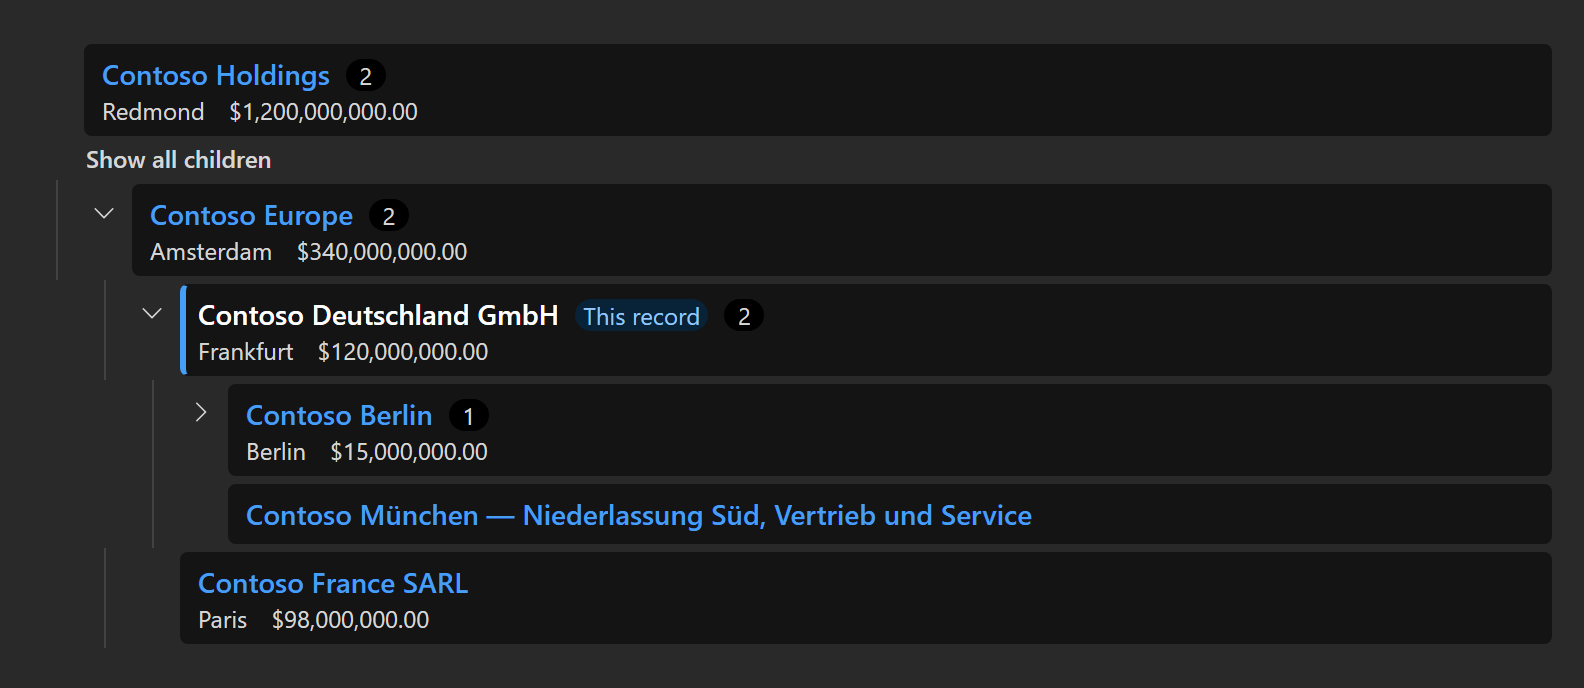
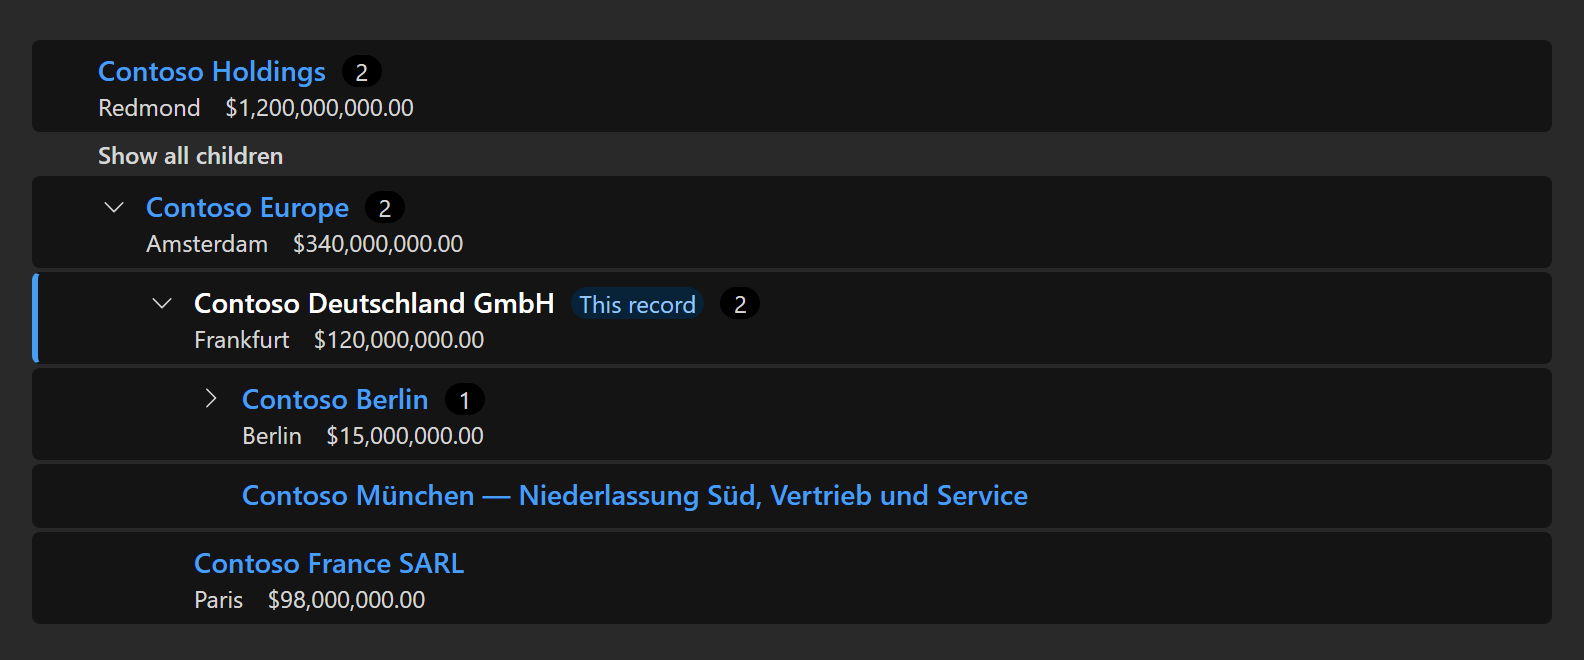
0.1.1: the row is the surface, and the details stay at every width
The Accounts form found two things the rig and the screenshots had missed,
both about the control's width on a form (SPEC.md, Walkthrough W5 and W6).
Detail columns never appeared: the control's column was about 280px and 0.1.0
hid the detail lines below 480px — a phone rule that fired on every two-column
section. Narrow now only tightens the indent. And the top row sat 26px right
of the form's other fields, because every row reserved a chevron column to the
left of its card; the row is the full-width surface now with the chevron
inside it, as Fluent's Tree draws it, so the leftmost row lines up with the
label whatever its depth. W1–W4 and W6's tree all behaved; W7 is left open
with its reasons. Screenshots retaken; docs no longer promise hidden details.

diff --git a/HierarchyView/css/HierarchyView.css b/HierarchyView/css/HierarchyView.css
@@ -99,15 +99,34 @@
  * the component sets per row, so the DOM stays one level deep and a screen
  * reader still hears the depth.
  *
+ * **The row is the surface, and the chevron sits inside it.** The first build
+ * reserved a chevron column to the left of every card, and the top row's card
+ * therefore sat 26px right of where the form's other fields start — the first
+ * thing the Accounts form showed (0.1.0 walkthrough, W6). Fluent's own Tree
+ * draws it this way: one full-width row per node, the indent and the chevron
+ * inside it, so the leftmost row lines up with the label whatever its depth.
+ *
  * Nothing here uses `container-type`: the root of a code component sits in a
  * shrink-to-fit parent on a form, and size containment zeroes its intrinsic
  * width — every form collapsed to a sliver when Calendar View 0.1.3 tried it.
- * Narrow is a class the component sets from a ResizeObserver.
+ * Narrow is a class the component sets from a ResizeObserver, and it only
+ * tightens the indent: the detail lines stay, because a two-column form
+ * section is under 480px and hiding them there hid them everywhere (W5).
  */
+.HierarchyView {
+    --HierarchyView-indent: 24px;
+    --HierarchyView-toggle: 24px;
+    --HierarchyView-pad: var(--spacingHorizontalXS, 4px);
+}
+
+.HierarchyView--narrow {
+    --HierarchyView-indent: 16px;
+}
+
 .HierarchyView .HierarchyView-root {
     width: 100%;
     box-sizing: border-box;
-    padding: var(--spacingVerticalXS, 4px) 0;
+    padding: var(--spacingVerticalXXS, 2px) 0;
 }
 
 .HierarchyView .HierarchyView-tree {
@@ -117,50 +136,60 @@
 }
 
 .HierarchyView .HierarchyView-item {
-    position: relative;
     margin: 0;
-    padding: 0 0 0 calc(var(--HierarchyView-depth, 0) * 24px);
-}
-
-.HierarchyView[dir="rtl"] .HierarchyView-item {
-    padding: 0 calc(var(--HierarchyView-depth, 0) * 24px) 0 0;
+    padding: 0;
 }
 
 /*
- * The guide line joining a node to its children: drawn on the row's left
- * edge, offset into the indent, so a deep subtree reads as one column of
- * descent rather than as staggered text.
+ * The row: Fluent's `filled-darker` surface, the shape a model-driven form
+ * draws its fields in, spanning the control's whole width. The depth goes
+ * into its leading padding.
  */
-.HierarchyView .HierarchyView-item[aria-level]:not([aria-level="1"])::before {
-    content: "";
-    position: absolute;
-    top: 0;
-    bottom: 0;
-    left: calc(var(--HierarchyView-depth, 0) * 24px - 12px);
-    border-left: 1px solid var(--HierarchyView-stroke-disabled);
-}
-
-.HierarchyView[dir="rtl"] .HierarchyView-item[aria-level]:not([aria-level="1"])::before {
-    left: auto;
-    right: calc(var(--HierarchyView-depth, 0) * 24px - 12px);
-    border-left: 0;
-    border-right: 1px solid var(--HierarchyView-stroke-disabled);
-}
-
 .HierarchyView .HierarchyView-row {
     display: flex;
     align-items: flex-start;
     gap: var(--spacingHorizontalXXS, 2px);
+    box-sizing: border-box;
     min-height: 32px;
+    margin: 2px 0;
+    padding: var(--spacingVerticalXS, 4px) var(--spacingHorizontalS, 8px) var(--spacingVerticalXS, 4px)
+        calc(var(--HierarchyView-depth, 0) * var(--HierarchyView-indent) + var(--HierarchyView-pad));
+    border: 1px solid var(--HierarchyView-stroke);
+    border-radius: var(--HierarchyView-radius);
+    background-color: var(--HierarchyView-background);
+    transition: background-color var(--HierarchyView-duration-faster) var(--HierarchyView-curve-ease);
 }
 
-/* The chevron button: Fluent's small subtle Button, square, 24px. */
+.HierarchyView[dir="rtl"] .HierarchyView-row {
+    padding: var(--spacingVerticalXS, 4px)
+        calc(var(--HierarchyView-depth, 0) * var(--HierarchyView-indent) + var(--HierarchyView-pad))
+        var(--spacingVerticalXS, 4px) var(--spacingHorizontalS, 8px);
+}
+
+.HierarchyView .HierarchyView-row:hover {
+    background-color: var(--HierarchyView-background-hover);
+}
+
+/* The record the form is open on: the brand stroke on its leading edge. */
+.HierarchyView .HierarchyView-item--current > .HierarchyView-row {
+    border-left: 3px solid var(--HierarchyView-stroke-focus);
+    padding-left: calc(var(--HierarchyView-depth, 0) * var(--HierarchyView-indent) + var(--HierarchyView-pad) - 2px);
+}
+
+.HierarchyView[dir="rtl"] .HierarchyView-item--current > .HierarchyView-row {
+    border-left: 1px solid var(--HierarchyView-stroke);
+    border-right: 3px solid var(--HierarchyView-stroke-focus);
+    padding-left: var(--spacingHorizontalS, 8px);
+    padding-right: calc(var(--HierarchyView-depth, 0) * var(--HierarchyView-indent) + var(--HierarchyView-pad) - 2px);
+}
+
+/* The chevron button: Fluent's small subtle Button, square, 24px, inside the row. */
 .HierarchyView .HierarchyView-toggle {
     flex: 0 0 auto;
-    width: 24px;
-    min-width: 24px;
+    width: var(--HierarchyView-toggle);
+    min-width: var(--HierarchyView-toggle);
     height: 24px;
-    margin-top: 4px;
+    margin: -2px 0;
     padding: 0;
     color: var(--HierarchyView-foreground-secondary);
 }
@@ -182,38 +211,11 @@
     transform: rotate(90deg);
 }
 
-/*
- * The card: Fluent's `filled-darker` surface, the shape a model-driven form
- * draws its fields in, so a row reads as belonging to the form. The current
- * record gets the brand stroke on its leading edge — the one thing on the
- * page the user is looking for.
- */
+/* The card is the row's text; the surface is the row's. */
 .HierarchyView .HierarchyView-card {
     flex: 1 1 auto;
     min-width: 0;
-    box-sizing: border-box;
-    margin: 2px 0;
-    padding: var(--spacingVerticalXS, 4px) var(--spacingHorizontalS, 8px);
-    border: 1px solid var(--HierarchyView-stroke);
-    border-radius: var(--HierarchyView-radius);
-    background-color: var(--HierarchyView-background);
-    transition: background-color var(--HierarchyView-duration-faster) var(--HierarchyView-curve-ease);
-}
-
-.HierarchyView .HierarchyView-row:hover .HierarchyView-card {
-    background-color: var(--HierarchyView-background-hover);
-}
-
-.HierarchyView .HierarchyView-item--current > .HierarchyView-row .HierarchyView-card {
-    border-left: 3px solid var(--HierarchyView-stroke-focus);
-    padding-left: calc(var(--spacingHorizontalS, 8px) - 2px);
-}
-
-.HierarchyView[dir="rtl"] .HierarchyView-item--current > .HierarchyView-row .HierarchyView-card {
-    border-left: 1px solid var(--HierarchyView-stroke);
-    border-right: 3px solid var(--HierarchyView-stroke-focus);
-    padding-left: var(--spacingHorizontalS, 8px);
-    padding-right: calc(var(--spacingHorizontalS, 8px) - 2px);
+    padding-left: var(--spacingHorizontalXXS, 2px);
 }
 
 .HierarchyView .HierarchyView-title {
@@ -312,19 +314,22 @@
     overflow-wrap: anywhere;
 }
 
-/* Under the card: loading, a failure with its retry, a truncation, "show all". */
+/*
+ * Under the row: loading, a failure with its retry, a truncation, "show all".
+ * Indented to the row's text, so it reads as belonging to the node above.
+ */
 .HierarchyView .HierarchyView-note {
     display: flex;
     align-items: center;
     gap: var(--spacingHorizontalXS, 4px);
-    margin: 0 0 2px 26px;
+    margin: 0 0 2px calc(var(--HierarchyView-depth, 0) * var(--HierarchyView-indent) + var(--HierarchyView-pad) + var(--HierarchyView-toggle) + 4px);
     color: var(--HierarchyView-foreground-secondary);
     font-size: var(--HierarchyView-font-size-caption);
     line-height: var(--HierarchyView-line-height-caption);
 }
 
 .HierarchyView[dir="rtl"] .HierarchyView-note {
-    margin: 0 26px 2px 0;
+    margin: 0 calc(var(--HierarchyView-depth, 0) * var(--HierarchyView-indent) + var(--HierarchyView-pad) + var(--HierarchyView-toggle) + 4px) 2px 0;
 }
 
 .HierarchyView .HierarchyView-note--failed {
@@ -352,31 +357,4 @@
 
 .HierarchyView .HierarchyView-message[role="alert"] {
     color: var(--HierarchyView-foreground-danger);
-}
-
-/*
- * Narrow: the details go, the indent tightens, so four levels still fit a
- * phone. A class, measured by the component — never a viewport query, which
- * cannot see a narrow section on a wide screen.
- */
-.HierarchyView--narrow .HierarchyView-details {
-    display: none;
-}
-
-.HierarchyView--narrow .HierarchyView-item {
-    padding-left: calc(var(--HierarchyView-depth, 0) * 16px);
-}
-
-.HierarchyView--narrow[dir="rtl"] .HierarchyView-item {
-    padding-left: 0;
-    padding-right: calc(var(--HierarchyView-depth, 0) * 16px);
-}
-
-.HierarchyView--narrow .HierarchyView-item[aria-level]:not([aria-level="1"])::before {
-    left: calc(var(--HierarchyView-depth, 0) * 16px - 8px);
-}
-
-.HierarchyView--narrow[dir="rtl"] .HierarchyView-item[aria-level]:not([aria-level="1"])::before {
-    left: auto;
-    right: calc(var(--HierarchyView-depth, 0) * 16px - 8px);
 }

diff --git a/HierarchyView/components/HierarchyViewControl.tsx b/HierarchyView/components/HierarchyViewControl.tsx
@@ -62,7 +62,12 @@ export interface IProps {
 /** `{0}` → the value. The .resx moves the placeholder per language; the code never assumes where. */
 export const fill = (template: string, value: string | number): string => template.replace('{0}', String(value));
 
-/** Below this width the details are hidden and the cards tighten. Measured, not queried. */
+/**
+ * Below this width the indent tightens from 24px to 16px so four levels still
+ * fit. Measured off the root, never queried off the viewport. The details stay:
+ * a two-column form section is under 480px, and hiding them there (0.1.0) hid
+ * them on the form the control was built for.
+ */
 export const NARROW_BELOW = 480;
 
 /**

diff --git a/SPEC.md b/SPEC.md
@@ -130,21 +130,24 @@ would take, and formatted values (the preset's are literal strings).
 - A hierarchy deeper than the platform's 100-recursion limit for hierarchical
   operators, and a node with more than 5,000 children.
 
-## Walkthrough — 0.1.0 on the form
+## Walkthrough — 0.1.0 on the form, 2026-09-18
 
 The built control, imported over the probe on the same Accounts form, bound to
-*Parent Account*. Each row is something the rig showed and the form has to
-confirm; the tag follows the answers.
+*Parent Account*. Each row is something the rig showed and the form had to
+confirm. Two rows found defects the rig and the screenshots had both missed —
+both about the control's *width on a form*, which no rig models and the
+screenshots were taken too wide to show — and 0.1.1 carries the fixes, so
+0.1.1 is the first release.
 
 | # | On the form | Expected | Answer |
 | --- | --- | --- | --- |
-| W1 | Open *City Power & Light (sample)* | Blue Yonder Airlines above it (badge 3), City Power marked *This record* with badge 1, its one child beneath, collapsed with a chevron | *pending* |
-| W2 | Press *Show all children* under Blue Yonder | City Power's two siblings appear beside it, by name; City Power keeps its mark and its child | *pending* |
-| W3 | Press the chevron on the child | Its children load (or the chevron goes and no note appears if the count was 0 — it should not be 0, the badge said 1) | *pending* |
-| W4 | Click a sibling's name | The form navigates to that record and the control redraws around it | *pending* |
-| W5 | Set *Detail columns* to `address1_city, revenue` and reload | City and formatted revenue under each name; a record with neither shows no second line | *pending* |
-| W6 | Open a **new** account (unsaved) | *Save the record to see its hierarchy.* — then save, and the tree appears | *pending* |
-| W7 | Bind a second instance to *Master ID* (`masterid`, not hierarchical) on the same form | The tree still draws, with chevrons on every node and no badges: the fallback route | *pending* |
+| W1 | Open *City Power & Light (sample)* | Blue Yonder Airlines above it (badge 3), City Power marked *This record* with badge 1, its one child beneath, collapsed with a chevron | As expected, except the child (Fabrikam) arrived open rather than collapsed — `initialDepth` 1 opens the current record's children, which is what the docs say; the expectation here was misworded. |
+| W2 | Press *Show all children* under Blue Yonder | City Power's two siblings appear beside it, by name; City Power keeps its mark and its child | Yes — Alpine Ski House (1) above, Coho Winery below, by name; City Power kept its mark, its badge and Fabrikam. |
+| W3 | Press the chevron on the child | Its children load (or the chevron goes and no note appears if the count was 0 — it should not be 0, the badge said 1) | Yes — Alpine Ski House opened to Adventure Works. |
+| W4 | Click a sibling's name | The form navigates to that record and the control redraws around it | Yes. |
+| W5 | Set *Detail columns* to `address1_city, revenue` and reload | City and formatted revenue under each name; a record with neither shows no second line | **Nothing appeared.** The control's column on the form is about 280px wide, and 0.1.0 hid the detail lines below 480px — a rule written for a phone that fired on every two-column section. 0.1.1 never hides them; narrow only tightens the indent. |
+| W6 | Open a **new** account (unsaved) | *Save the record to see its hierarchy.* — then save, and the tree appears | The tree appeared after the save, as a single marked row with *No child records.* — **but 26px right of the form's other fields**: every row reserved a chevron column to the left of its card, so the top row's card never lined up with the label. 0.1.1 makes the row the surface with the chevron inside it, as Fluent's Tree does. |
+| W7 | Bind a second instance to *Master ID* (`masterid`, not hierarchical) on the same form | The tree still draws, with chevrons on every node and no badges: the fallback route | Not run — *Master ID* is the merge lookup, read-only and usually off the form. The route's two halves were measured separately (P5 answers `false` for it; P12 is the OData it would send), so this would confirm the drawing only. Left open. |
 
 ## Screenshots
 
@@ -156,11 +159,11 @@ the window is 32 wider for the page's padding:
 
 | File | Query | Window |
 | --- | --- | --- |
-| `screenshot.png` | `?width=760` | 792×314 |
-| `screenshot-expanded.png` | `?showall=p1&expand=k1&width=760` | 792×394 |
-| `screenshot-fallback.png` | `?hierarchical=false&width=760` | 792×314 |
-| `screenshot-dark.png` | `?dark=1&showall=p1&width=760` | 792×344 |
-| `screenshot-narrow.png` | `?width=320&depth=2` | 352×344 |
+| `screenshot.png` | `?width=760` | 792×300 |
+| `screenshot-expanded.png` | `?showall=p1&expand=k1&width=760` | 792×380 |
+| `screenshot-fallback.png` | `?hierarchical=false&width=760` | 792×300 |
+| `screenshot-dark.png` | `?dark=1&showall=p1&width=760` | 792×330 |
+| `screenshot-narrow.png` | `?width=300&depth=2` | 332×380 |
 
 Heights are `document.body.scrollHeight` read off the page first. New file
 names on every retake — the hub's mirror never re-fetches a path. The logo is

diff --git a/docs/limitations.md b/docs/limitations.md
@@ -35,9 +35,10 @@ Each of these is a constraint that was chosen, not a defect waiting on a fix.
 - **An ancestor the user cannot read ends the chain there.** The tree starts at
   the top-most record the user is allowed to see, without saying that anything
   sits above it. Saying so would leak that a record exists.
-- **Below 480 pixels the detail lines are hidden** and the indent tightens, so
-  four levels still fit a phone. The measurement is the control's own width,
-  not the browser's — a narrow form column on a desktop does the same.
+- **Below 480 pixels the indent tightens** from 24 to 16 pixels per level, so
+  four levels still fit a phone; nothing is hidden. The measurement is the
+  control's own width, not the browser's — a narrow form column on a desktop
+  does the same.
 - **Sample data is for the demo.** While *Sample data (demo only)* holds
   anything, the control renders it and never queries. It is documented as
   such, defaults to blank, and belongs blank on a real form.

diff --git a/docs/overview.md b/docs/overview.md
@@ -46,7 +46,7 @@ relationship was ever flagged as hierarchical.
 | Host | Works | Notes |
 | --- | --- | --- |
 | Model-driven form (web) | Yes | Both routes, counts on a hierarchical lookup |
-| Model-driven form (phone, tablet) | Yes | Details hidden below 480px; not yet measured on the phone client |
+| Model-driven form (phone, tablet) | Yes | The indent tightens below 480px; not yet measured on the phone client |
 | Canvas app | No | Binds a `Lookup.Simple`, which canvas cannot |
 | Power Pages | No | No Web API from a code component there |
 

diff --git a/docs/faq.md b/docs/faq.md
@@ -64,7 +64,7 @@ record is not a link.
 
 ## Does it work offline / on the phone?
 
-It renders in the phone layout — the details hide below 480 pixels — and it
-needs a connection, because everything it shows is read from Dataverse when the
+It renders in the phone layout — below 480 pixels the indent tightens so four
+levels still fit — and it needs a connection, because everything it shows is read from Dataverse when the
 form opens. It has not yet been opened on the phone client itself; see
 [Limitations](limitations.md).

diff --git a/docs/model-driven.md b/docs/model-driven.md
@@ -18,8 +18,10 @@ order: 4
 :::
 
 :::callout{type=info}
-Put it in its own section, full width. The tree is as tall as the hierarchy is
-deep, and a narrow column hides the detail lines to keep four levels legible.
+Put it in its own section if you can. The tree is as tall as the hierarchy is
+deep and as wide as the column it is in; it works in a two-column section, where
+the indent tightens, and best across a full-width one, where long names stop
+wrapping.
 :::
 
 ## The column it binds
